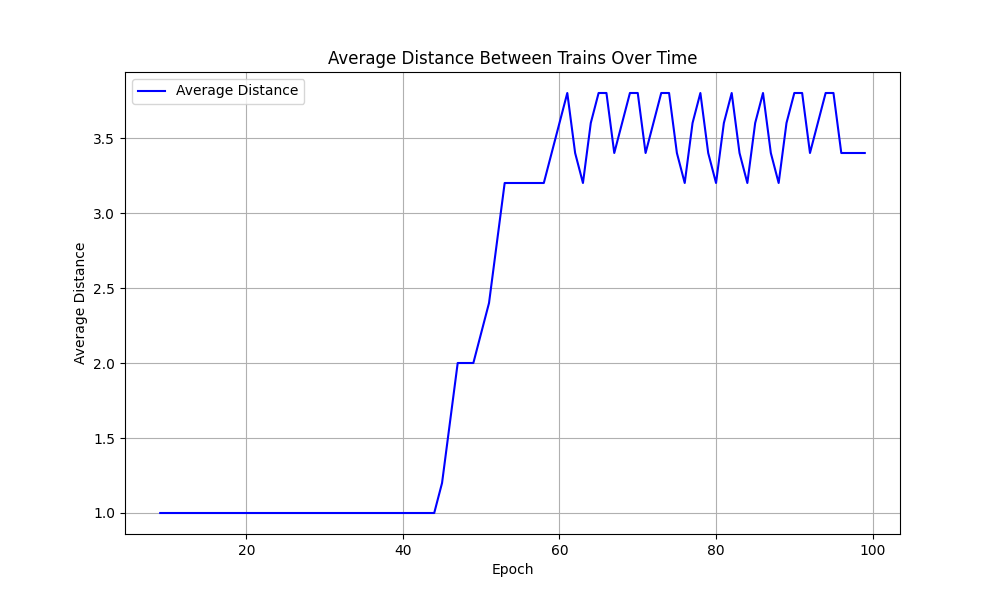
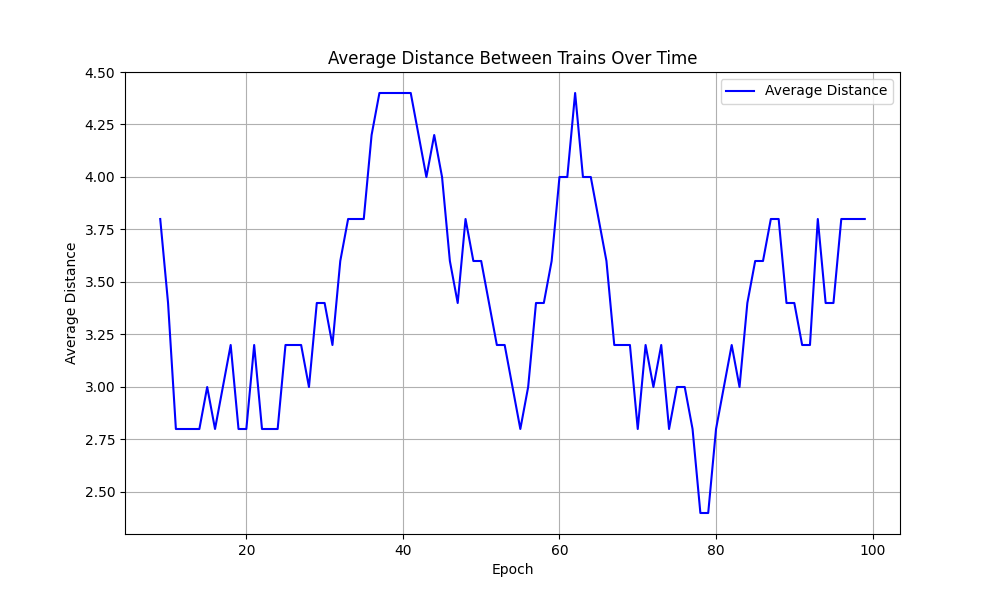
Draft of IntermediateTrack

diff --git a/src/main_intermediate_track.py b/src/main_intermediate_track.py
@@ -3,112 +3,128 @@ from pennylane import numpy as np
 import matplotlib.pyplot as plt
 import random
 import itertools
-from train_simulation import *  # Assuming the track and train classes are imported correctly
+import pandas as pd
+from train_simulation import *  
 
-# QML code, loosely based off of the paper, extra materials, and the given mlx file
-dev = qml.device("default.qubit", wires=1, shots=1000)
+# 2-Qubit Variational Quantum Circuit 
+dev = qml.device("default.qubit", wires=2, shots=1000)
 
-# Basic VQC
 @qml.qnode(dev)
-def W(theta):
+def VQC(theta):
+    
     qml.RX(theta[0], wires=0)
     qml.RY(theta[1], wires=0)
-    return qml.probs(wires=[0])
+    
+    qml.RX(theta[2], wires=1)
+    qml.RY(theta[3], wires=1)
 
-# Return mean squared error (MSE)
-# Purpose: determine how desirable the output is. Smaller, the better
+    # entanglement with CNOT
+    qml.CNOT(wires=[0, 1])
+
+    return qml.probs(wires=[0, 1])
+
+# Only keep 3 states out of the max of 4 with 2 qubits
+def map_VQC_results(theta):
+    probs = VQC(theta)
+    return np.array([probs[0], probs[1], probs[2] + probs[3]])
+
+# Mean Squared Error Loss Function
 def square_loss(X, Y):
-    loss = 0
-    for x, y in zip(X, Y):
-        loss = loss + (x - y) ** 2
-    return loss / len(X)
+    return np.mean((X - Y) ** 2) 
 
-# Evaluate the QC based on the current probability distribution
-def cost(theta, p):
-    return square_loss(W(theta), [p, 1-p])
+# Cost function
+def cost(theta, p_target):
+    return square_loss(map_VQC_results(theta), p_target)
 
-# Value for how fast the system learns (policy change speed)
+# Optimizer
 opt = qml.GradientDescentOptimizer(stepsize=0.01)
 
-# How many times the optimizer will try to improve the quantum model
-# see update() below:
-steps = 100  
-
-# Trains quantum circuit to the expected probability
-# More specifically, this is what adjusts the theta value
-def update(theta, p):
-    for i in range(steps):
-        theta = opt.step(lambda v: cost(v, p), theta)
+# Training Function
+def update(theta, p_target):
+    for _ in range(100): 
+        theta = opt.step(lambda v: cost(v, p_target), theta)
     return theta
 
+# Q-learning parameters
 alpha_values = [0.1]
 gamma_values = [0.9]
-epsilon_values = [0.1]
+epsilon_values = [0.3]
 epoch_values = [100]
-
 results = []
 
-mode = "QRL"
-
-# Sweep through all combinations of parameters
 for alpha, gamma, epsilon, epochs in itertools.product(alpha_values, gamma_values, epsilon_values, epoch_values):
     print(f"Running with alpha={alpha}, gamma={gamma}, epsilon={epsilon}, epochs={epochs}")
 
-    # Initialize Q-Learning values
-    theta_train1 = np.random.randn(2)
-    M = np.zeros(epochs)  # Probability of taking the loop
-    A = np.zeros(epochs)  # Probability of taking the loop for Train 2 (constant)
-    train1_Q = [0, 0]
+    # Initialize Q-values and quantum model parameters
+    theta_train1 = np.random.randn(10)  
+    train1_Q = [0, 0, 0]
     distances = np.zeros(epochs)
 
-    # Initialize the track and trains
-    track = IntermediateTrack()  # Using IntermediateTrack now
+    # Store probabilities for graphs
+    M_loop = np.zeros(epochs)      
+    M_bypass = np.zeros(epochs)    
+    M_outerLoop = np.zeros(epochs) 
+
+    # Initialize track and trains
+    track = IntermediateTrack()
     train1 = Train(track, start_position=0)
     train2 = Train(track, start_position=7)
 
     previous_distance = calculate_distance(train1, train2, track)
 
     for i in range(epochs):
-        # Epsilon-greedy action selection for Train 1
-        if np.random.rand() < epsilon:
-            a_train1 = np.random.randint(0, 3)
-        else:
-            a_train1 = np.argmax(train1_Q)
-        
-        take_bypass_train1 = a_train1 == 1
+        print(f"Epoch: {i}")
 
-        # Simulate train movement and get the reward
-        current_distance = simulate_train_loop_predictable(train1, train2, track, take_bypass_train1) 
-        
+        # Epsilon-greedy action selection for Train 1
+        # randomly pick choice, unless epsilon is higher, in which case pick what was learned
+        if np.random.rand() < epsilon:
+            a_train1 = np.random.randint(0, 3)  # Randomly pick 0, 1, or 2
+        else:
+            a_train1 = np.argmax(train1_Q)  # Choose best action from Q-table
+
+        # Simulate train movement and get reward
+        current_distance = simulate_train_loop_random(train1, train2, track, a_train1)
         distances[i] = current_distance
 
-        # Reward determination based on train distance
+        # Determine Reward
         if current_distance > previous_distance:
             train1_reward = +1
-            train2_reward = -1
         elif current_distance < previous_distance:
             train1_reward = -1
-            train2_reward = +1
         else:
             train1_reward = 0
-            train2_reward = 0
 
-        # Update Q-values using Bellman equation
+        # Update Q-values using Bellman's equation
         train1_Q[a_train1] = train1_Q[a_train1] + alpha * (train1_reward + gamma * max(train1_Q) - train1_Q[a_train1])
 
-        # Calculate target probability based on Q-values for Train 1
-        p_train1 = train1_Q[0] / (train1_Q[0] + train1_Q[1]) if (train1_Q[0] + train1_Q[1]) != 0 else 0.5
-        
-        # Train the quantum model using Q-values for Train 1 only
-        if p_train1 > 0:
-            theta_train1 = update(theta_train1, p_train1)
+        # Calculate probabilities for each action based on Q-values
+        total_q = sum(train1_Q)
 
-        # Store probability of choosing loop for plotting (Train 1's probability)
-        M[i] = W(theta_train1)[0]
-        # Train 2's probability will remain constant as it's predictable and doesn't change
-        A[i] = 0.5  # Train 2 always takes the main loop (0.5 chance for each path)
+        # Choose the corresponding q-value, unless they are all 0, then pick randomly
+        if total_q != 0:
+            p_train1_loop = train1_Q[0] / total_q
+            p_train1_bypass = train1_Q[1] / total_q
+            p_train1_outerLoop = train1_Q[2] / total_q
+        else:
+            p_train1_loop = 1 / 3
+            p_train1_bypass = 1 / 3
+            p_train1_outerLoop = 1 / 3
 
-    # Save results for this parameter set
+        # DEBUG: Print target probabilities for Train 1
+        print(f"Target probabilities for Train 1,  Loop: {p_train1_loop}, Bypass: {p_train1_bypass}, Outer Loop: {p_train1_outerLoop}")
+
+        # Update the quantum model based on the target probabilities
+        theta_train1 = update(theta_train1, [p_train1_loop, p_train1_bypass, p_train1_outerLoop])
+
+        # Store probability of choosing each action for plotting
+        action_probs = map_VQC_results(theta_train1)
+        M_loop[i] = action_probs[0]  # Probability of taking the normal loop
+        M_bypass[i] = action_probs[1]  # Probability of taking the bypass
+        M_outerLoop[i] = action_probs[2]  # Probability of taking the outer loop
+
+
+
+    # Save results to graph
     results.append({
         'alpha': alpha,
         'gamma': gamma,
@@ -116,39 +132,34 @@ for alpha, gamma, epsilon, epochs in itertools.product(alpha_values, gamma_value
         'epochs': epochs,
         'final_distance': distances[-1],
         'mean_distance': np.mean(distances),
-        'final_probability_train1': M[-1],
-        'mean_probability_train1': np.mean(M),
-        'final_probability_train2': A[-1],
-        'mean_probability_train2': np.mean(A)
+        'final_probability_loop': M_loop[-1],
+        'mean_probability_loop': np.mean(M_loop),
+        'final_probability_bypass': M_bypass[-1],
+        'mean_probability_bypass': np.mean(M_bypass),
+        'final_probability_outerLoop': M_outerLoop[-1],
+        'mean_probability_outerLoop': np.mean(M_outerLoop),
     })
 
-# Display results in a readable format
-import pandas as pd
-
+# Graph results
 df = pd.DataFrame(results)
 print(df)
 
-# Plot mean probability of taking loop for different epsilons
 plt.figure(figsize=(10, 6))
-for epsilon in epsilon_values:
-    subset = df[df['epsilon'] == epsilon]
-    plt.plot(subset['alpha'], subset['mean_probability_train1'], label=f'Train 1 - epsilon={epsilon}', marker='o')
-    plt.plot(subset['alpha'], subset['mean_probability_train2'], label=f'Train 2 - epsilon={epsilon}', marker='x')
+plt.plot(range(epochs), M_bypass, label="Bypass", color='green', linestyle='--')
+plt.plot(range(epochs), M_loop, label="Loop", color='blue', linestyle='-')
+plt.plot(range(epochs), M_outerLoop, label="Outer Loop", color='red', linestyle='-.')
 
-plt.title('Mean Probability of Taking Loop vs Alpha for Different Epsilons')
-plt.xlabel('Alpha')
-plt.ylabel('Mean Probability of Taking Loop')
+plt.title('Train 1 Action Probabilities Over Time')
+plt.xlabel("Epoch")
+plt.ylabel("Probability")
 plt.legend()
 plt.grid(True)
-plt.savefig('mean_probability_plot.png')
+plt.savefig('train_action_probabilities.png')
 
-# Plot average distance over epochs
+
 plt.figure(figsize=(10, 6))
-# Calculate rolling average (window size = 10)
 window = 10
-avg_distances = np.convolve(distances, np.ones(window)/window, mode='valid')
-
-# Plot the rolling average
+avg_distances = np.convolve(distances, np.ones(window) / window, mode='valid')
 plt.plot(range(window - 1, epochs), avg_distances, label='Average Distance', color='blue')
 plt.title('Average Distance Between Trains Over Time')
 plt.xlabel('Epoch')

diff --git a/src/main.py b/src/main.py
@@ -123,6 +123,8 @@ for alpha, gamma, epsilon, epochs in itertools.product(alpha_values, gamma_value
         p_train1 = train1_Q[0] / (train1_Q[0] + train1_Q[1]) if (train1_Q[0] + train1_Q[1]) != 0 else 0.5
         p_train2 = train2_Q[0] / (train2_Q[0] + train2_Q[1]) if (train2_Q[0] + train2_Q[1]) != 0 else 0.5
         
+        print("p_train1: " + str(p_train1))
+
         # Train the quantum model using Q-values
         if p_train1 > 0:
             theta_train1 = update(theta_train1, p_train1)
@@ -181,3 +183,5 @@ plt.ylabel('Average Distance')
 plt.legend()
 plt.grid(True)
 plt.savefig('average_distance_plot.png')
+
+plt.show()

diff --git a/src/train_simulation.py b/src/train_simulation.py
@@ -171,7 +171,7 @@ def simulate_train_loop_predictable(train1, train2, track, takeAlternateRoute):
     
     while True:
         train1.move(takeAlternateRoute)
-        train2.move(0)
+        train2.move(1)
 
         if train1.current_node.position == start_position:
             break
